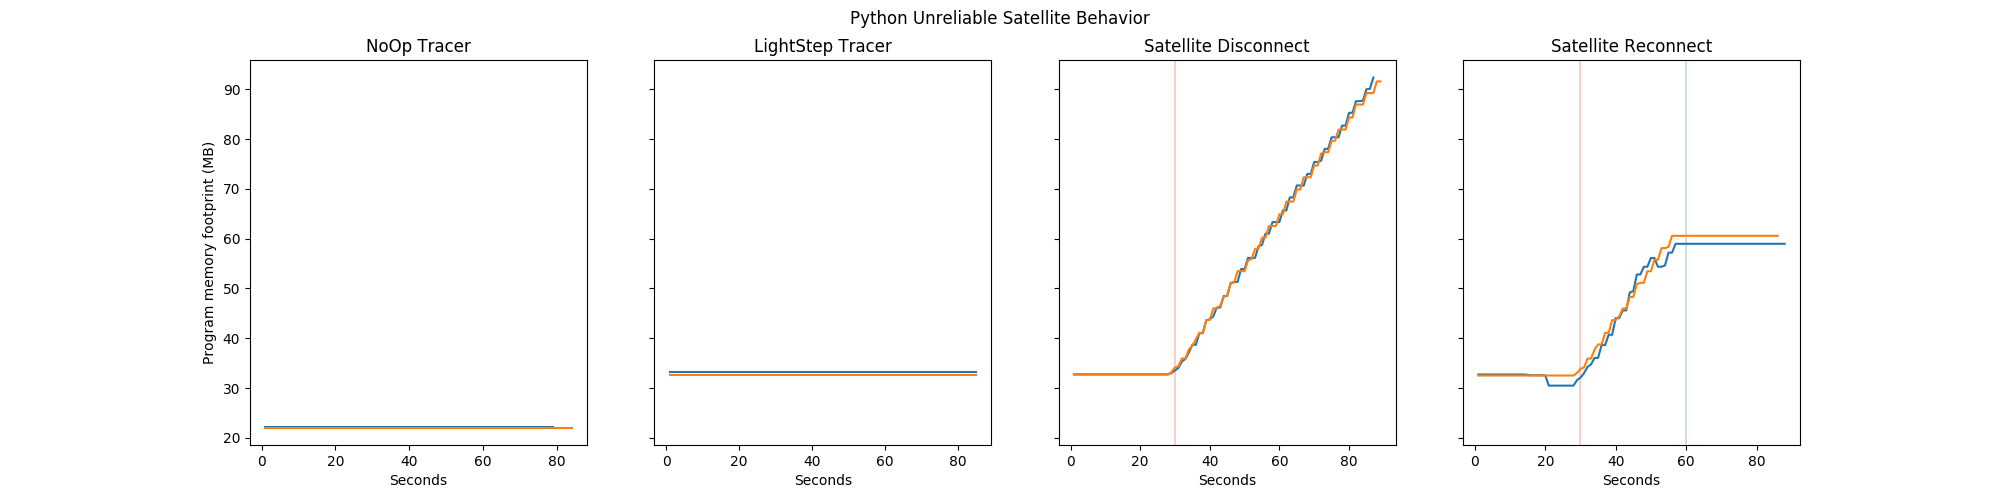
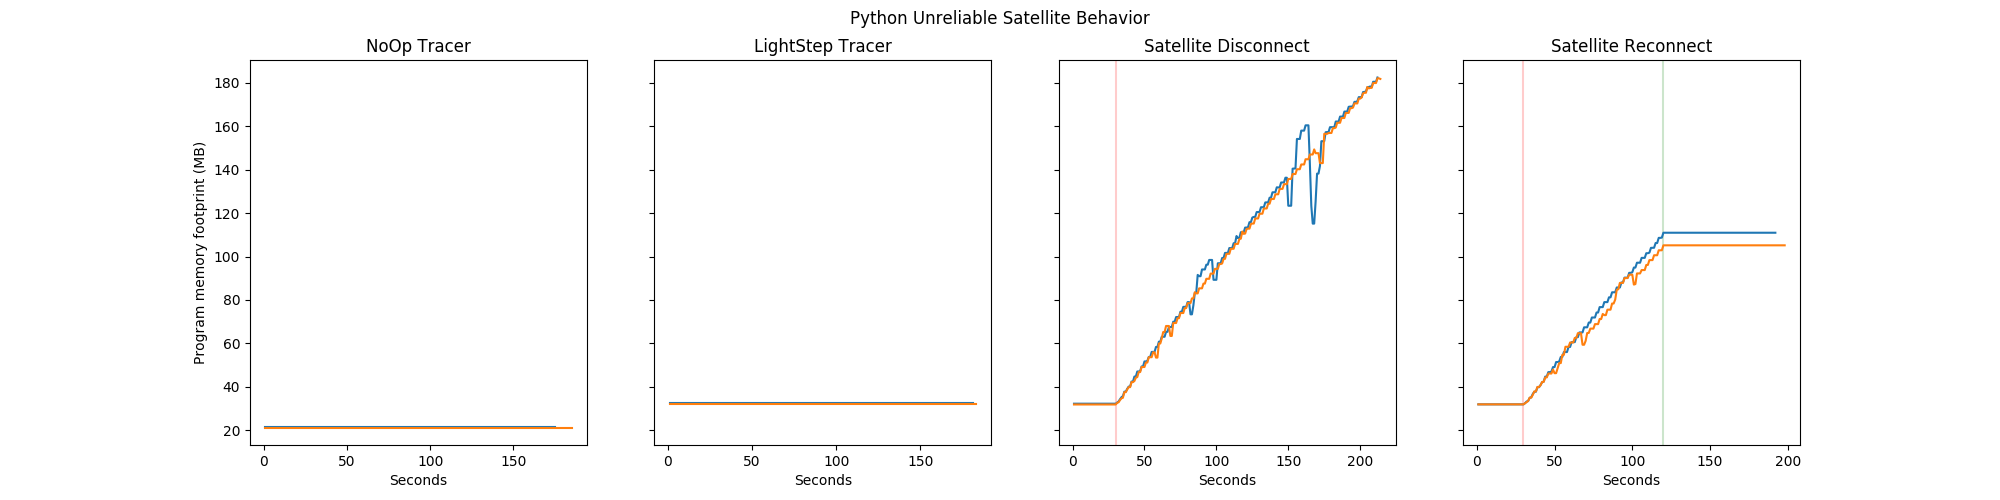
Improve documentation and add javascript client (#69)
* update satellite disconnect graph

* Add install links; add port scan instruction

* reword CI docs

* add node.js client

* rename to js client

* add js client

* add Protobuf install guide

* handle psutil.NoSuchProcess

* use lightstep_streaming instead of lightstep_native

* add detailed Protobuf install instructions

diff --git a/clients/js_client.js b/clients/js_client.js
@@ -1,0 +1,103 @@
+"use strict";
+
+const opentracing = require("opentracing");
+const lightstep = require("lightstep-tracer");
+const http = require("http");
+
+const satellite_host = "localhost";
+const satellite_port = 8360;
+
+const controller_port = 8023;
+const controller_host = "localhost";
+
+const millis_per_nano = 1000000;
+const prime_work = 982451653;
+
+const noop_tracer = new opentracing.Tracer(null);
+const test_tracer = new lightstep.Tracer({
+  access_token: "ignored",
+  collector_port: satellite_port,
+  collector_host: satellite_host,
+  collector_encryption: "none",
+  component_name: "javascript/test",
+  report_timeout_millis: 200 // .2s
+});
+
+// Note: Keep-Alive does not work properly, reason unknown.  Disable
+// it to make progress.
+var keepAliveAgent = new http.Agent({
+  keepAlive: false
+});
+
+function get_control() {
+  console.log("requesting next command.");
+  return http.get(
+    {
+      host: controller_host,
+      port: controller_port,
+      path: "/control",
+      agent: keepAliveAgent
+    },
+    response => {
+      console.log("parsing control response.");
+
+      var body = "";
+      response.on("data", function(d) {
+        body += d;
+        return;
+      });
+      response.on("end", function() {
+        var c = JSON.parse(body);
+        console.log(`got control command ${c}`);
+
+        var tracer = c.Trace ? test_tracer : noop_tracer;
+
+        return exec_control(c, tracer);
+      });
+    }
+  );
+}
+
+function exec_control(c, tracer) {
+  var begin = process.hrtime();
+  var sleep_debt = 0;
+  var sleep_at;
+  var sleep_nanos = 0;
+  var p = prime_work;
+  var body_func = function(repeat) {
+    if (sleep_debt > 0) {
+      var diff = process.hrtime(sleep_at);
+      var nanos = diff[0] * 1e9 + diff[1];
+      sleep_nanos += nanos;
+      sleep_debt -= nanos;
+    }
+    for (var r = repeat; r > 0; r--) {
+      var span = tracer.startSpan("span/test");
+      for (var i = 0; i < c.Work; i++) {
+        p *= p;
+        p %= 2147483647;
+      }
+      span.finish();
+      sleep_debt += c.Sleep;
+      if (sleep_debt > c.SleepInterval) {
+        sleep_at = process.hrtime();
+        return setTimeout(body_func, sleep_debt / millis_per_nano, r - 1);
+      }
+    }
+
+    // done with work at this point
+
+    var endTime = process.hrtime();
+    var elapsed = endTime[0] - begin[0] + (endTime[1] - begin[1]) * 1e-9;
+
+    if (c.Trace && !c.NoFlush) {
+      // call next_control when the flush is complete
+      return tracer.flush();
+    }
+    process.exit();
+  };
+
+  body_func(c.Repeat);
+}
+
+get_control();

diff --git a/benchmark/controller.py b/benchmark/controller.py
@@ -45,6 +45,9 @@ client_args = {
     'python-cpp': [
         'python3', path.join(PROJECT_DIR, 'clients/python_client.py'),
         'cpp'],
+    'js': [
+        'node', path.join(PROJECT_DIR, 'clients/js_client.js'),
+    ]
 }
 
 logger = logging.getLogger(__name__)
@@ -159,7 +162,7 @@ class ClientProcess(subprocess.Popen):
                     self._clock_time = time.time() - start_clock_time
             # if the child process has shut down, ignore because self.poll()
             # will detect this soon
-            except psutil.AccessDenied:
+            except (psutil.AccessDenied, psutil.NoSuchProcess):
                 pass
 
     def _save_list_stats(self, cpu_list, memory_list):
@@ -187,7 +190,7 @@ class ClientProcess(subprocess.Popen):
                     memory_list.append(memory_usage)
             # if the child process has shut down, ignore because self.poll()
             # will detect this soon
-            except psutil.AccessDenied:
+            except (psutil.AccessDenied, psutil.NoSuchProcess):
                 pass
 
     def get_results(self):

diff --git a/clients/python_client.py b/clients/python_client.py
@@ -47,8 +47,8 @@ def build_tracer(command, tracer_name):
         )
     elif command['Trace'] and tracer_name == "cpp":
         logging.info("We're using the python-cpp tracer.")
-        import lightstep_native
-        return lightstep_native.Tracer(
+        import lightstep_streaming
+        return lightstep_streaming.Tracer(
             component_name='isaac_service',
             access_token='developer',
             use_stream_recorder=True,

diff --git a/README.md b/README.md
@@ -1,6 +1,6 @@
 # LightStep Benchmarks
 
-LightStep Benchmarks is a tool for analyzing the performance of [OpenTracing](https://opentracing.io/) Tracers. It is currently in use to measure the performance of LightStep's [legacy Python Tracer](https://github.com/lightstep/lightstep-tracer-python) and [Streaming Python Tracer](https://github.com/lightstep/lightstep-tracer-cpp).
+LightStep Benchmarks is a tool for analyzing the performance of [OpenTracing](https://opentracing.io/) Tracers. It is currently in use to measure the performance of LightStep's [legacy Python Tracer](https://github.com/lightstep/lightstep-tracer-python) and [Streaming Python Tracer](https://pypi.org/project/lightstep-native/).
 
 This repo contains two parts: A benchmarking API which can be used to measure the performance of OpenTracing Tracers and a suite of programs which use the benchmarking API to generate performance graphs and run regression tests.
 
@@ -9,17 +9,21 @@ This repo contains two parts: A benchmarking API which can be used to measure th
 This setup has only been tested on OS X and Linux (Ubuntu).
 
 - `git clone https://github.com/lightstep/lightstep-benchmarks.git`
-- Install Python 3.7 or higher and pip
+- Install [Python 3.7](https://www.python.org/downloads/) or higher (pip will come installed by default)
+- Install [Google Protobuf](https://github.com/protocolbuffers/protobuf/releases). Unfortunately, the Protobuf install is very poorly documented. As of version 3.9.1, these steps work:
+  - Download and unzip the folder, then enter it
+  - Run `./configure`
+  - Run `sudo make install`
+  - The install has succeeded if `protoc --version` prints out the Protobuf version.
 
 Now, from the lightstep-benchmarks directory:
 
 - Install development dependencies: `sudo python3 -m pip install -r requirements-dev.txt`
-- Install [Google Protobuf](https://github.com/protocolbuffers/protobuf/releases)
 - Generate Python Protobuf files from .proto files using this script: `./scripts/generate_proto.sh`
 
 ## Getting Started
 
-Let's begin by benchmarking the legacy LightStep Python Tracer, since Python is already installed. We won't worry about setting up mock Satellites for the tracer to send spans to yet. First, make sure you don't have any programs bound to port 8023, because this port will be used during the test.
+Let's begin by benchmarking the legacy LightStep Python Tracer, since Python is already installed. We won't worry about setting up mock Satellites for the tracer to send spans to yet. First, make sure you don't have any programs bound to ports 8023 or 8360, because these port will be used during the test. You can check bound ports on Linux with: `sudo lsof -i -P -n | grep LISTEN`.
 
 Save this code as lightstep-benchmarks/hello_world.py:
 

diff --git a/docs/ci.md b/docs/ci.md
@@ -13,12 +13,12 @@ Performance graphs are fairly expensive to generate, and don't have a simple pas
 
 ### Unreliable Satellite Graphs
 
-These graphs display information about how a traced client program's memory footprint is impacted by Satellites disconnecting and reconnecting from tracers. The raw data from these tests are saved as CI artifacts. Four distinct tests are run during which tracers report fifty spans per second for 180 seconds. Results are displayed in four distinct graphs:
+These graphs display information about how a traced client program's memory footprint is impacted by Satellites disconnecting and reconnecting from tracers. The raw data from these tests are saved as CI artifacts. Four distinct tests are run during which tracers report 50 spans per second for 180 seconds. Results are displayed in four distinct graphs:
 
 - **NoOp Test**: Memory use of the NoOp tracer is plotted.
 - **LightStep Tracer Test**: Memory use of a LightStep tracer is plotted.
-- **Satellite Disconnect Test**: Memory use of a LightStep tracer is plotted. All mock Satellites are shutdown 30 seconds into the test, indicated by a red line in the plot.
-- **Satellite Reconnect Test**: Memory use of a LightStep tracer is plotted. All mock Satellites are shutdown at the red line 30 seconds into the test, then started at the green line 120 seconds into the test.
+- **Satellite Disconnect Test**: Memory use of a LightStep tracer is plotted. Mock Satellites are shutdown 30 seconds into the test, indicated by a red line in the plot.
+- **Satellite Reconnect Test**: Memory use of a LightStep tracer is plotted. Mock Satellites are shutdown at the red line 30 seconds into the test, then started at the green line 120 seconds into the test.
 
 ![Unreliable Satellite Graphs](./python_satellite_disconnect.png "Unreliable Satellite Graphs")
 
